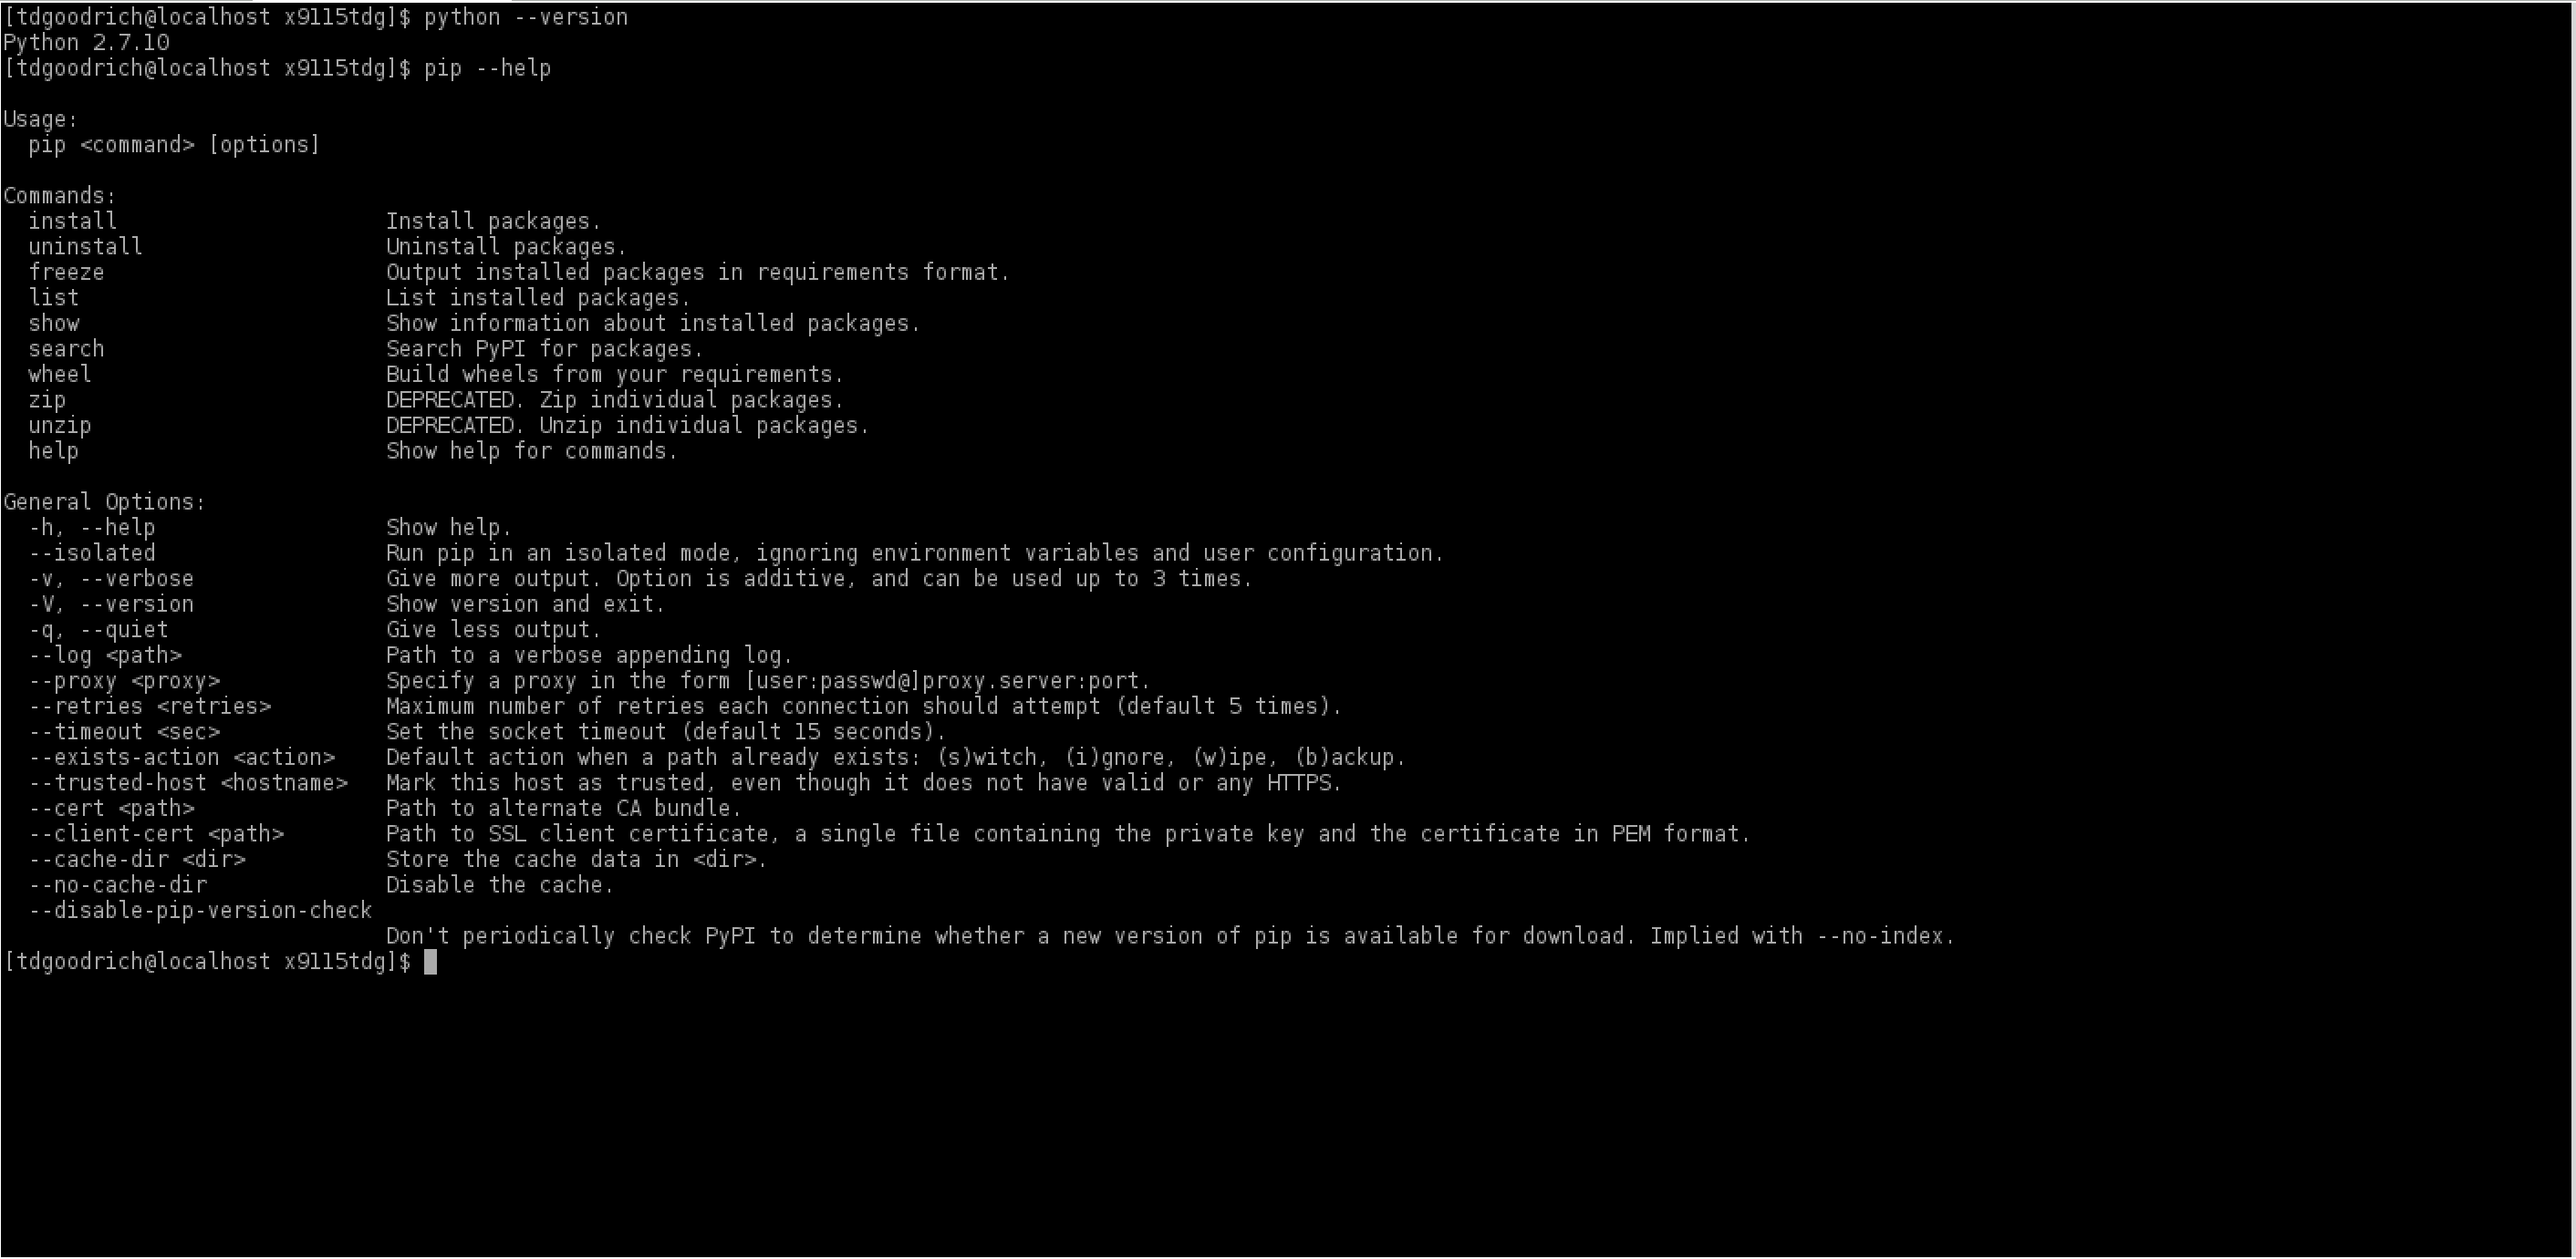
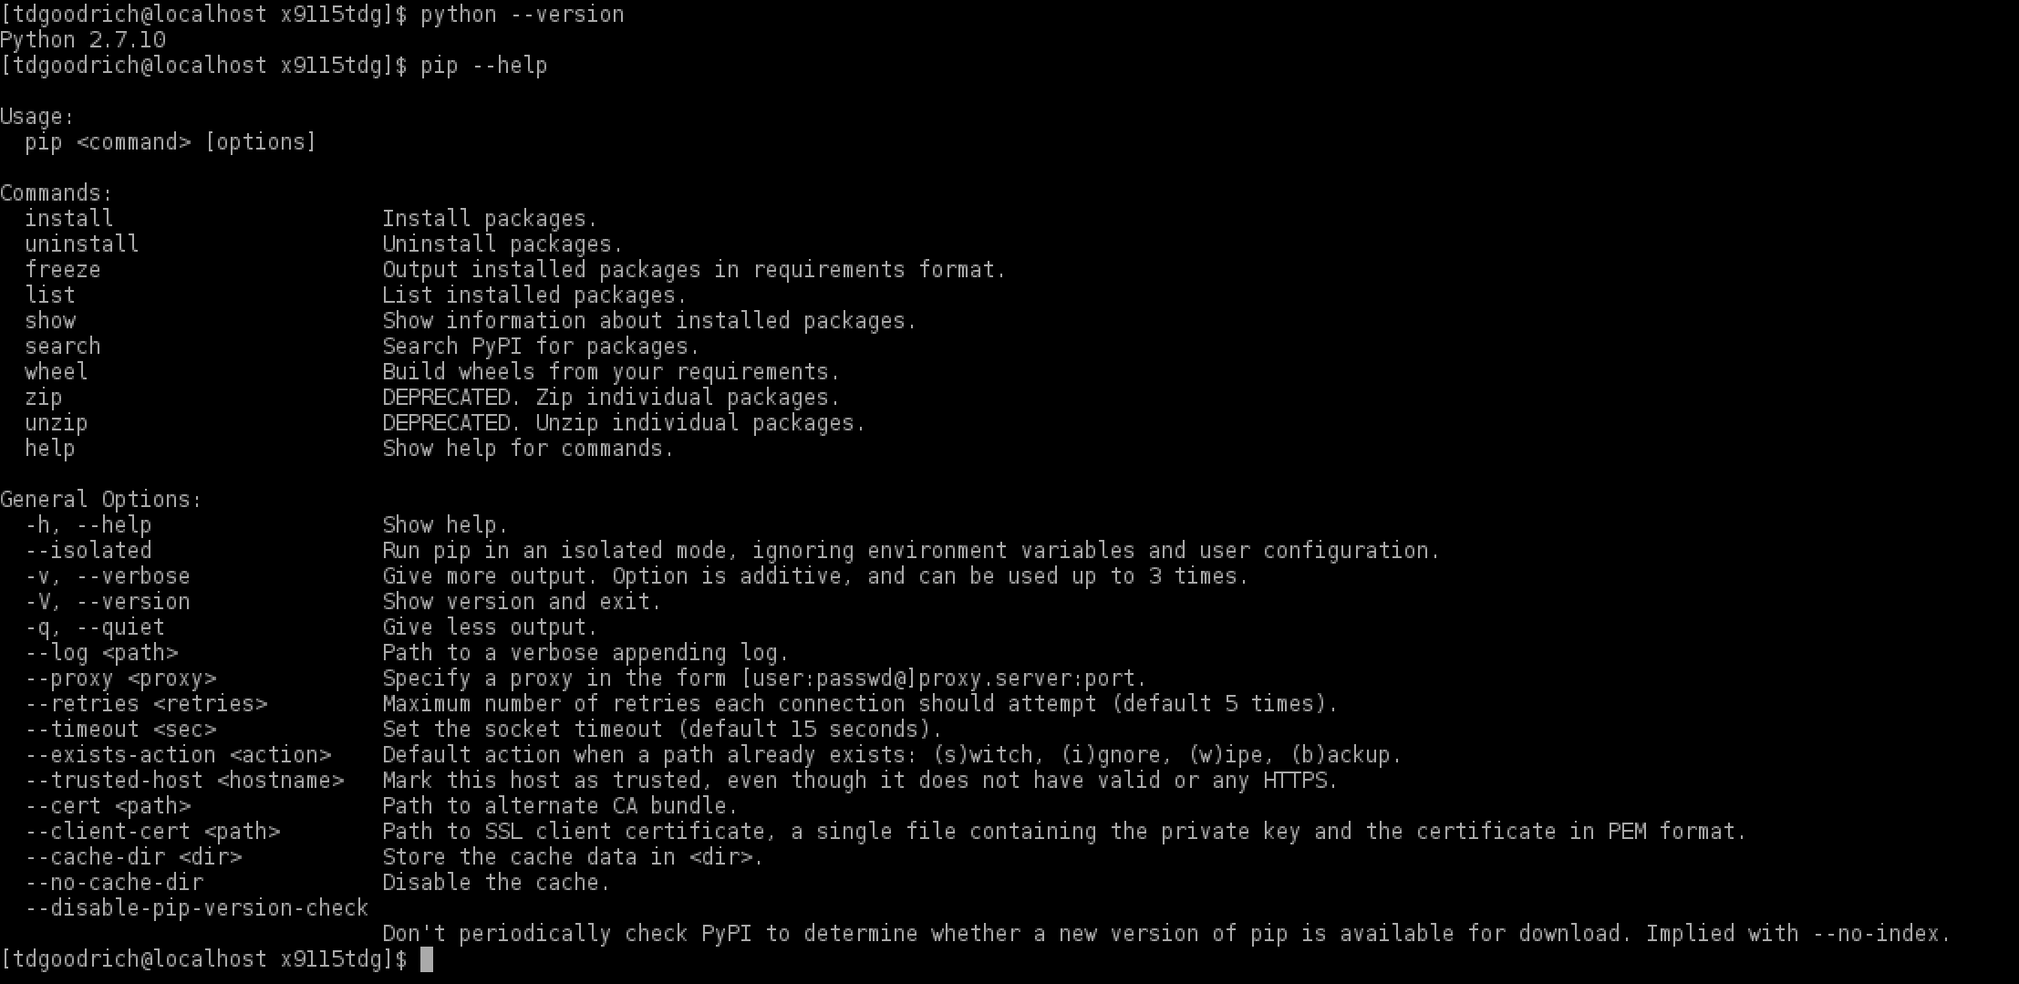
Completed hw1

diff --git a/hw/code/1/README.md b/hw/code/1/README.md
@@ -1,12 +1,14 @@
+### Solution
+
 Here is the top level of my repo:
 
-<img src="toplevel.PNG" width=500>
+<img src="toplevel.PNG">
 
 Currently I'm using a Fedora 22 LXDE virtual machine for coding, I already had all the related Python items installed:
 
-<img src="commands1.PNG" width=500>
-<img src="commands2.PNG" width=500>
+<img src="commands1.PNG">
+<img src="commands2.PNG">
 
 And here is the working okok.py:
 
-<img src="okok.PNG" width=500>
+<img src="okok.PNG">
